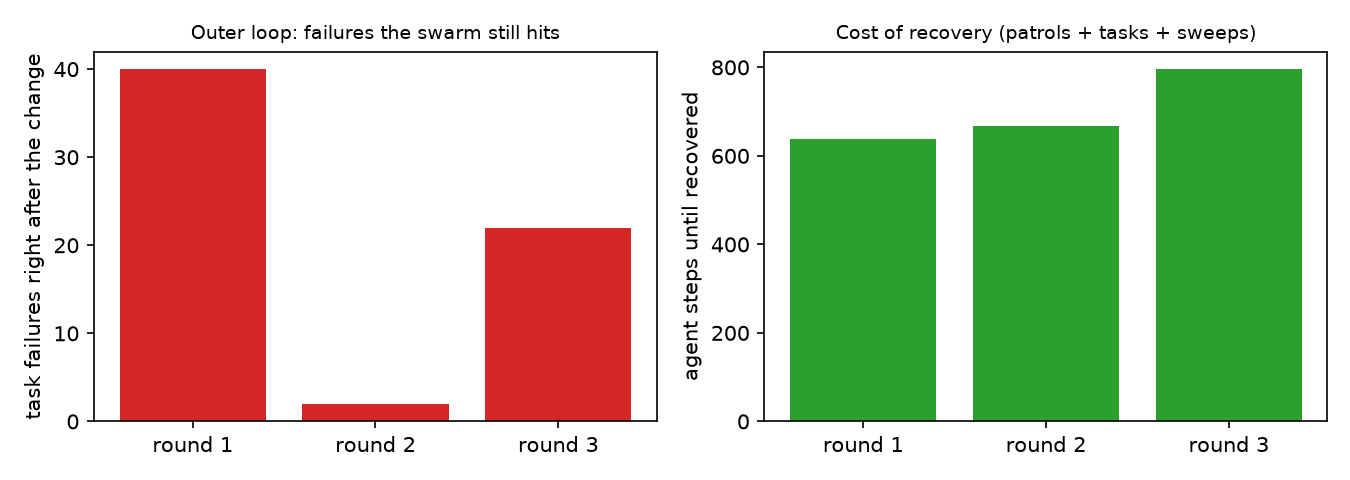
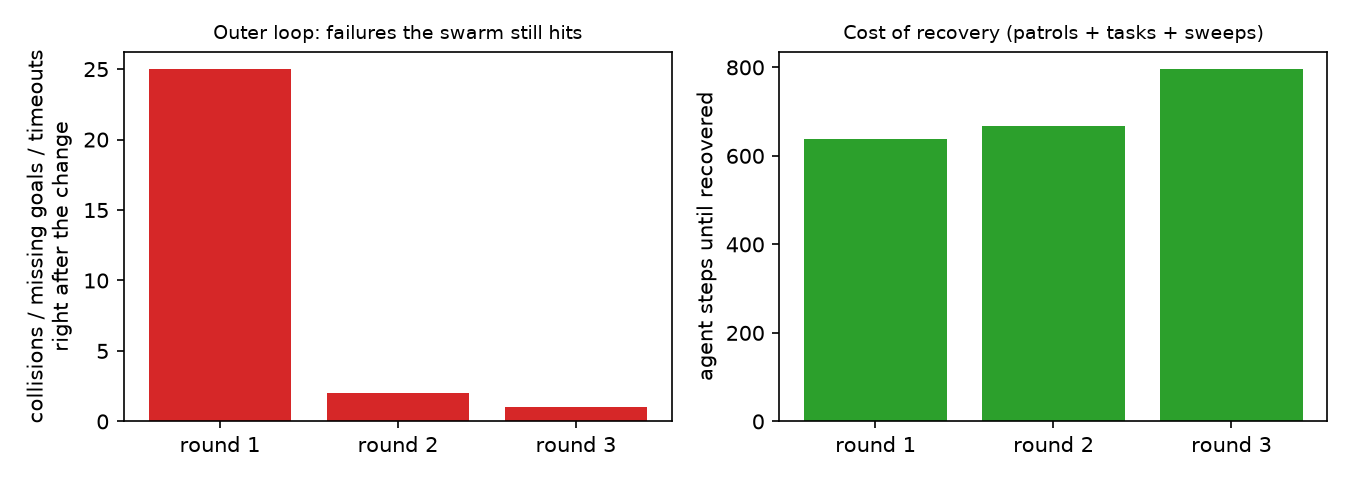
Failures-at-change chart counts only hard navigation failures

diff --git a/cogmap/viz.py b/cogmap/viz.py
@@ -48,13 +48,20 @@ def plot_curve(out_dir: str) -> str:
     if rounds:
         # failures the task swarm hit right after each change (patrol rounds should push this toward 0)
         fails = []
+        frames_path = os.path.join(out_dir, "frames.json")
+        frames = json.load(open(frames_path)) if os.path.exists(frames_path) else []
+        hard = {"blocked", "goal_missing", "no_path", "timeout"}
         for r in rounds:
-            m = next((m for m in tl if m.get("round") == r["round"] and m.get("phase") == "after_change"), None)
-            fails.append(m.get("failures", 0) if m else 0)
+            fr = next((f for f in frames if f["label"].startswith(f"round {r['round']}: world changed")), None)
+            if fr is not None:
+                fails.append(sum(1 for f in fr["failures"] if f["kind"] in hard))
+            else:
+                m = next((m for m in tl if m.get("round") == r["round"] and m.get("phase") == "after_change"), None)
+                fails.append(m.get("failures", 0) if m else 0)
         fig, (a1, a2) = plt.subplots(1, 2, figsize=(9, 3.2))
         labels = [f"round {r['round']}" for r in rounds]
         a1.bar(labels, fails, color="#d62728")
-        a1.set_ylabel("task failures right after the change")
+        a1.set_ylabel("collisions / missing goals / timeouts\nright after the change")
         a1.set_title("Outer loop: failures the swarm still hits", fontsize=9)
         a2.bar(labels, [r["steps_to_recover"] for r in rounds], color="#2ca02c")
         a2.set_ylabel("agent steps until recovered")
